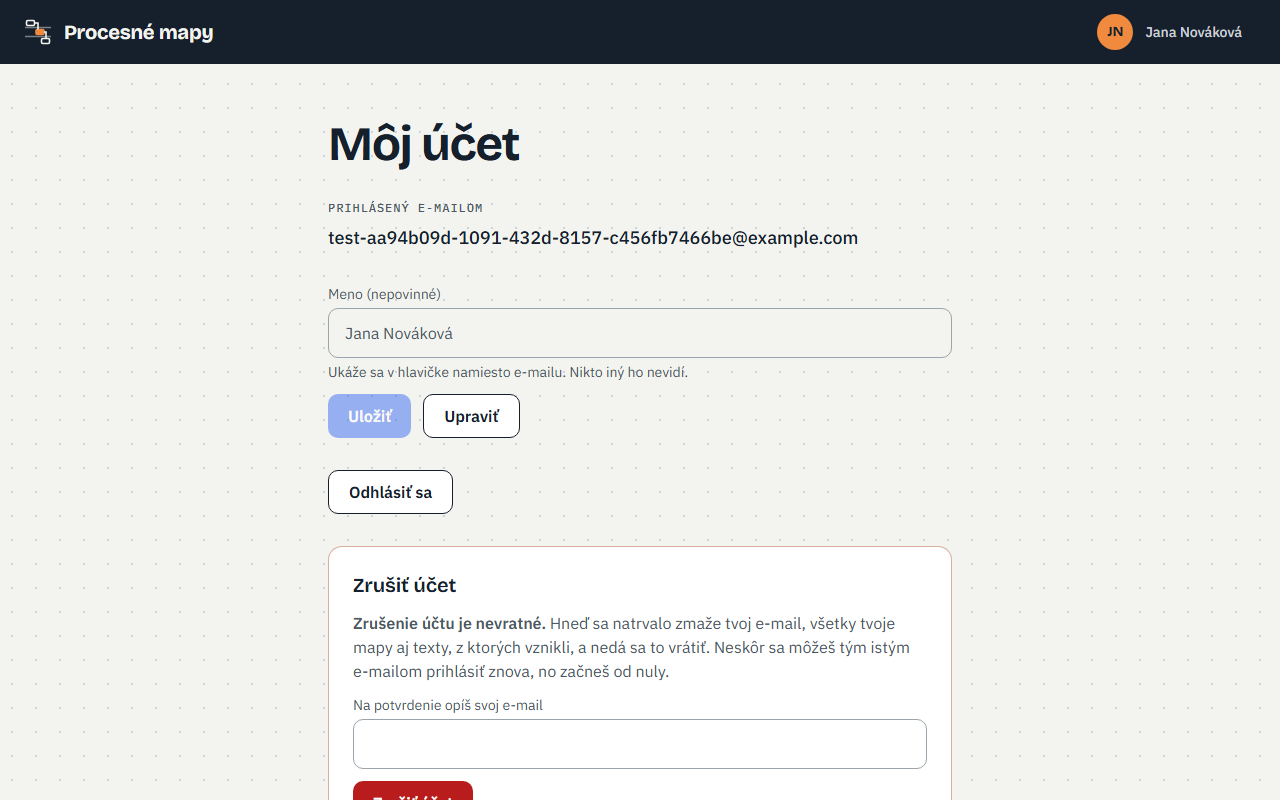
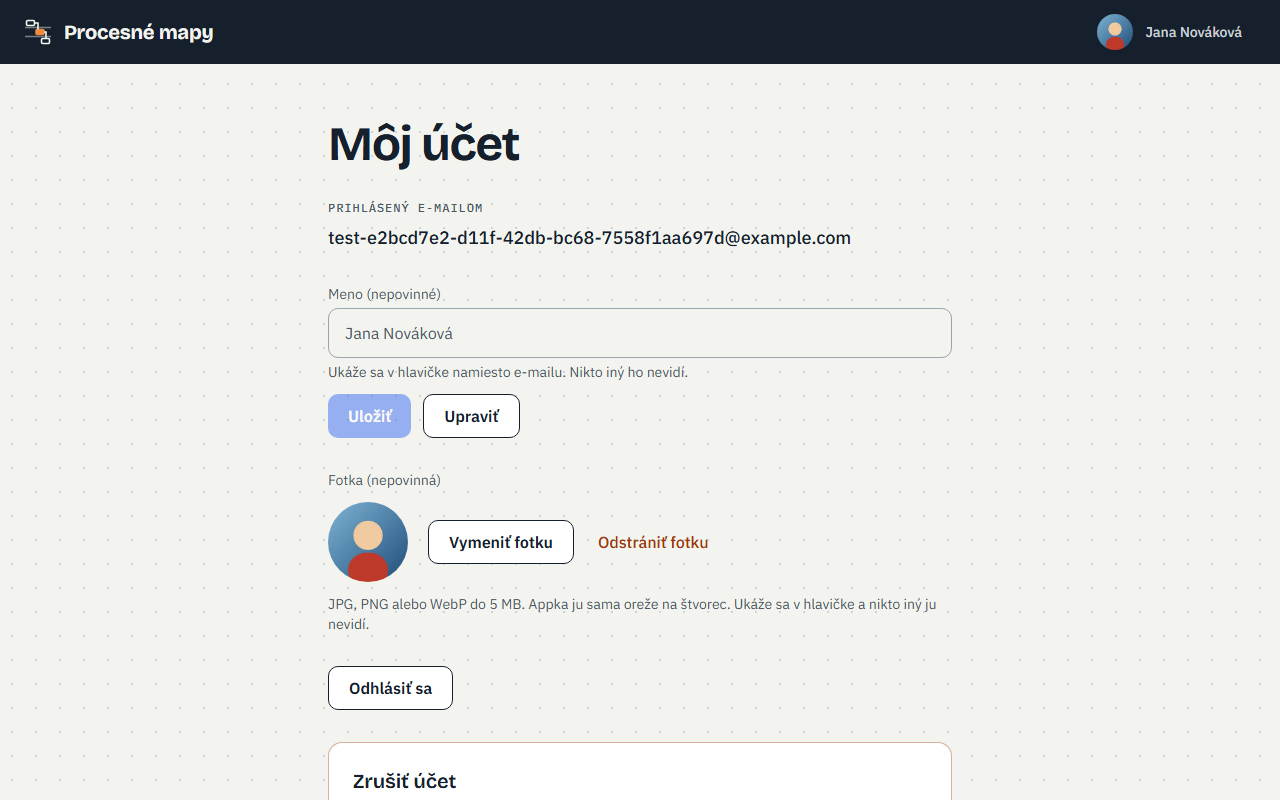
Dokumentácia podľa stavu z 2026-10-28.

diff --git a/index.md b/index.md
@@ -4,7 +4,7 @@ title: "Procesné mapy: čo appka zatiaľ vie"
 
 # Procesné mapy: čo appka zatiaľ vie
 
-Stav k 28. 10. 2026 o 10:50.
+Stav k 28. 10. 2026 o 13:26.
 
 Procesné mapy je webová aplikácia, ktorá z popisu procesu urobí procesnú mapu. Dnes vie z vloženého textu nakresliť prehľadovú mapu s krokmi rozdelenými podľa rolí, ktorýkoľvek krok rozpísať na detailnú mapu a mapu ručne opraviť. Hotovú mapu môžeš poslať odkazom niekomu, kto nemá účet, alebo si ju stiahnuť ako obrázok či PDF. Je zadarmo, s limitom 15 analýz mesačne na účet.
 
@@ -17,10 +17,11 @@ Prihlási sa ktokoľvek s akoukoľvek e-mailovou adresou, bez pozvánky a bez he
 - Na úvodnej stránke zadáš e-mail a príde ti prihlasovací odkaz. Po jeho otvorení klikneš ešte na „Prihlásiť sa“, aby ho nespotrebovala automatická kontrola e-mailu. Nový odkaz si môžeš vypýtať najskôr o minútu.
 - Keď je odkaz použitý alebo vypršal, aplikácia povie „Odkaz už neplatí“ a ponúkne poslanie nového.
 - Na tom istom zariadení ostaneš prihlásený až 30 dní.
-- Na stránke „Môj účet“ vidíš svoj e-mail, môžeš si zadať nepovinné meno (uložené meno zmeníš cez „Upraviť“), odhlásiť sa alebo si účet natrvalo zrušiť. Zrušenie zmaže všetky tvoje mapy a dáta.
-- Vpravo hore je kolečko s iniciálami tvojho mena a vedľa neho meno. Kým meno nemáš, je tam e-mail, pri dlhej adrese skrátený. Na mobile je tam len kolečko. Klik naň otvorí „Môj účet“. Meno vidíš len ty, na zdieľanú mapu, do exportu ani k AI sa nedostane.
+- Na stránke „Môj účet“ vidíš svoj e-mail, môžeš si zadať nepovinné meno (uložené meno zmeníš cez „Upraviť“), nahrať si fotku, odhlásiť sa alebo si účet natrvalo zrušiť. Zrušenie zmaže všetky tvoje mapy a dáta.
+- Fotku vo formáte JPG, PNG alebo WebP do 5 MB appka sama oreže na štvorec zo stredu, nič neorezávaš. Kedykoľvek ju vymeníš za inú alebo odstrániš. Iný formát alebo väčší súbor odmietne so zrozumiteľnou hláškou.
+- Vpravo hore je kolečko s tvojou fotkou a vedľa neho meno. Kým fotku nemáš, sú v kolečku iniciály mena. Kým meno nemáš, je tam e-mail, pri dlhej adrese skrátený. Na mobile je tam len kolečko. Klik naň otvorí „Môj účet“. Meno aj fotku vidíš len ty. Na zdieľanú mapu, do exportu ani do zoznamu máp sa nedostanú a meno nejde ani k AI.
 
-![Môj účet: e-mail, uložené meno v neaktívnom políčku s tlačidlami „Uložiť“ a „Upraviť“ a v hlavičke kolečko s iniciálami „JN“ a menom Jana Nováková](obrazky/moj-ucet.png)
+![Môj účet: e-mail, uložené meno s tlačidlami „Uložiť“ a „Upraviť“, fotka v kolečku s tlačidlami „Vymeniť fotku“ a „Odstrániť fotku“ a v hlavičke kolečko s fotkou a menom Jana Nováková](obrazky/moj-ucet.png)
 
 Vedľa prihlásenia je ukážková mapa „Káva došla“: s nadhľadom ukazuje, ako procesná mapa vyzerá, ešte kým sa človek prihlási.
 
